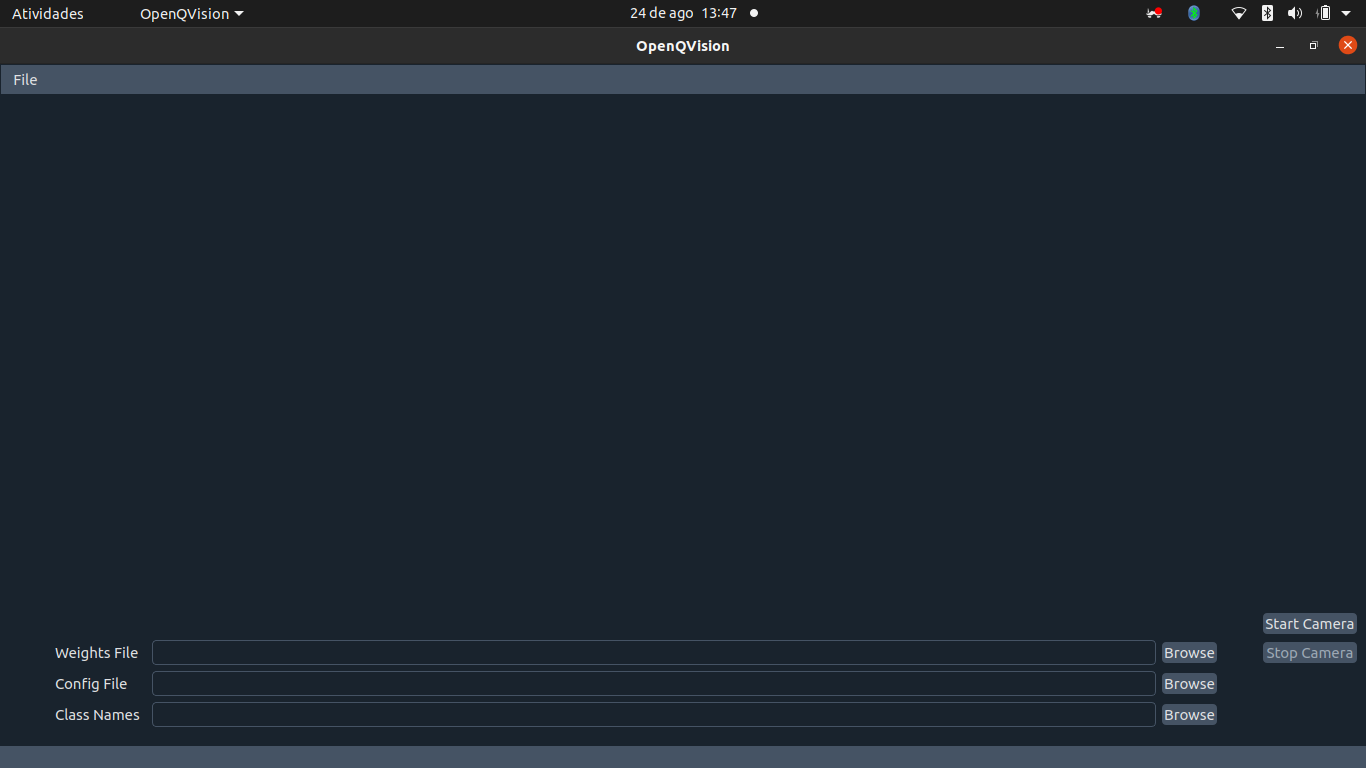
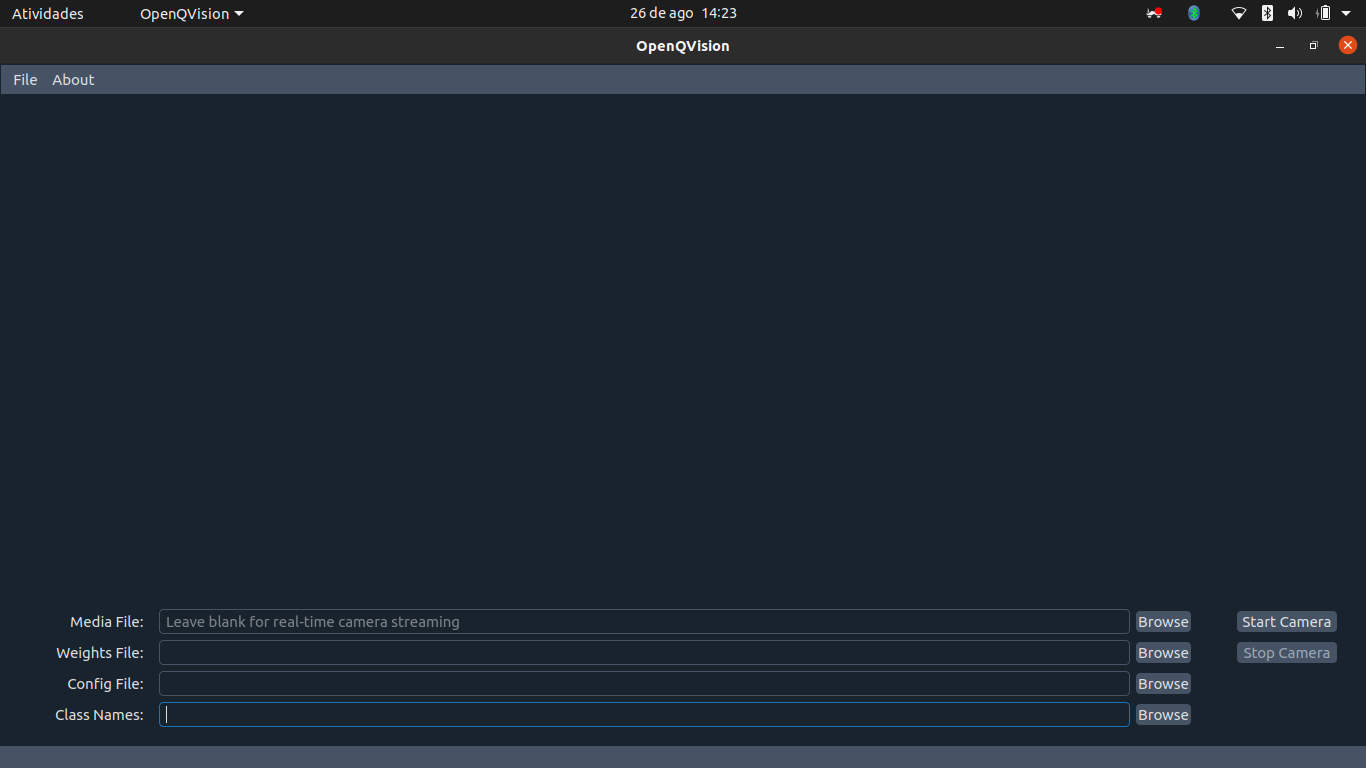
Changes on README for v1.1.0

diff --git a/src/mainwindow.cpp b/src/mainwindow.cpp
@@ -103,13 +103,14 @@ void MainWindow::on_actionAbout_OpenQVision_triggered()
     msgBox.setIcon(QMessageBox::Information);
     msgBox.setText("OpenQVision is a computer vision project that allows developers "
                    "and/or data scientists to rapidly test their newborn neural networks "
-                   "on camera streaming. As the name itself refers to, "
+                   "on camera streaming, video or photos. As the name itself refers to, "
                    "it is based on OpenCV (https://github.com/opencv/opencv) and Qt "
                    "framework (https://github.com/qt) and handles Tensorflow "
                    "(https://github.com/tensorflow/tensorflow) and Yolo Neural Networks "
                    "(https://github.com/pjreddie/darknet). "
                    "Version 1.0.0 idealized and developed by Alexandre Martuscelli Faria. "
-                   "Credits to Tom Ha (https://github.com/tomha85), Nico Nielsen (https://github.com/niconielsen32) "
+                   "Credits to Tom Ha (https://github.com/tomha85), Nico Nielsen (https://github.com/niconielsen32), "
+                   "Audrey Siqueira (https://github.com/audrey-siqueira) "
                    "and C++ community on GitHub.");
     msgBox.setStandardButtons(QMessageBox::Ok);
     msgBox.setDefaultButton(QMessageBox::Ok);

diff --git a/README.md b/README.md
@@ -1,6 +1,6 @@
 # OpenQVision - v1.1.0
 
-OpenQVision is a computer vision project that allows developers and/or data scientists to rapidly test their newborn neural networks on camera streaming. As the name itself refers to, it is based on OpenCV (https://github.com/opencv/opencv) and Qt framework (https://github.com/qt) and handles Tensorflow (https://github.com/tensorflow/tensorflow) and Yolo Neural Networks (https://github.com/pjreddie/darknet).
+OpenQVision is a computer vision project that allows developers and/or data scientists to rapidly test their newborn neural networks on camera streaming, video or photos. As the name itself refers to, it is based on OpenCV (https://github.com/opencv/opencv) and Qt framework (https://github.com/qt) and handles Tensorflow (https://github.com/tensorflow/tensorflow) and Yolo Neural Networks (https://github.com/pjreddie/darknet).
 
 ## Installation
 
@@ -34,13 +34,13 @@ For a quick sanity check, click on Start Camera. If it opens, it is all set.
 
 Then click on Stop Camera.
 
-Afterwards, just browse your neural network files path (weights, config and classes) to the main window. As you press Start Camera again, OpenQVision will identify if the user is loading a Tensorflow or Yolo model and camera streaming starts coupled with the detection model.
+Afterwards, browse your neural network files path (weights, config and classes) to the main window and pick your media source. You can browse to search for image files (*.png, *.jpg, *.jpeg) or video files (*.mp4, *.mpg, *.mpeg). If a media file is selected, the Start Camera and the Stop Camera buttons change to Read File and Stop. By pressing Read File or Start Camera, OpenQVision will identify if the user is loading a Tensorflow or Yolo model and media reproduction or camera streaming is executed coupled with the detection model.
 
 #### Quick note on Telegram and conditional actions
 
 Feel free to use OpenQVision with your own modules. This version conditions the object detection to trigger a Telegram Bot. If you want to use it, go to OpenQVision/src/curl_telegram.cpp and to OpenQVision/src/videocaptured.cpp and set your own Bot Token and Telegram User Id. Any problems with creating a Telegram Bot, please refer to official documentation at https://core.telegram.org/bots/api.
 
-If you are using Yolo weights and config, the object detection will trigger the chatbot after counting a certain amount of frames with an object from your model classes. The last frame is captured in temp directory and sent with the caption "We found your <name-of-the-object>!". Something like follows:
+If you are using Yolo weights and config, the object detection will trigger the chatbot after counting a certain amount of frames with an object from your model classes. The last frame is captured in results directory and sent with the caption "We found your <name-of-the-object>!". Something like follows:
 
 ![alt text](https://github.com/dev-gazer/OpenQVision/blob/main/telegram-bot-example.png)
 
@@ -56,6 +56,8 @@ If you are using Yolo weights and config, the object detection will trigger the 
 * **Tom Ha** (https://github.com/tomha85) for providing such great lecture on how to read properly Yolo Darknet in C++ OpenCV.
 
 * **Nico Nielsen** (https://github.com/niconielsen32) for also providing great content on Computer Vision in C++ and Python. This encouraged me a lot on porting OpenQVision from Python to C++.
+
+* **Audrey Siqueira** (https://github.com/audrey-siqueira) for suggesting the generalization of the application, to read not just camera streaming, but also video and image files.
 
 ## License
 
